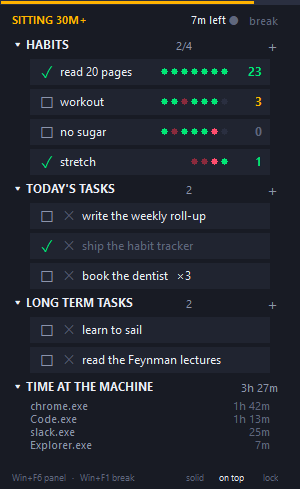
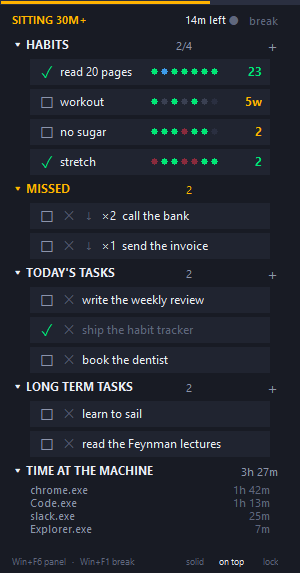
Daybook 1.0.0: out of beta, a taskbar window that never pops up by itself
The panel is an ordinary window by default - taskbar button, Alt+Tab,
minimise - with [Look] Taskbar to switch back to the overlay. Nothing it does
on its own raises, restores or focuses it: Relayout no longer shows a hidden
or minimised panel from a timer.

README: no-internet line up top, where the journal goes without Obsidian, new
screenshots made from a default ini and invented data.

diff --git a/README.md b/README.md
@@ -1,15 +1,16 @@
 # Semi-Automatic Daybook
 
-An always-on-top day panel for Windows. Habits, tasks, and a sit timer that
+A day panel for Windows. Habits, tasks, and a sit timer that
 only counts time you were actually there - all of it written out as plain
 markdown, one file per day.
 
 Semi-automatic: it keeps the half of a journal that is counting, and leaves the
 half that is thinking to you.
 
-AutoHotkey v1 · Windows only · beta, it has only ever run on one machine
+AutoHotkey v1 · Windows only · **no internet, no account** - everything stays
+in two folders on your PC
 
-![The panel: habits with their streaks, today's tasks, long term tasks, and where the day went](https://raw.githubusercontent.com/HamedPhixer/Semi-Automatic-Daybook/main/docs/images/panel.png)
+![The panel: habits with their streaks, missed tasks, today's and long term tasks, and where the day went](https://raw.githubusercontent.com/HamedPhixer/Semi-Automatic-Daybook/main/docs/images/panel.png)
 
 ## What it does
 
@@ -19,6 +20,8 @@ ticked, for the evening you did the thing and forgot to say so. Every day,
 every few days, or so many times a week; rest days for when you are sick or
 away. Right-click a habit for its calendar, where you can also bring in a
 streak you kept somewhere else.
+
+![A habit's calendar: three times a week, every week kept, with the streak in weeks](https://raw.githubusercontent.com/HamedPhixer/Semi-Automatic-Daybook/main/docs/images/calendar.png)
 
 **Tasks.** One list for today, one for later. Tick or cross one and a small box
 opens to say why. Anything unfinished waits under MISSED: say which day you did
@@ -57,8 +60,12 @@ Amber at 30 minutes and red at 45, five minutes for a break: all settings.
 
 ## The journal
 
-One `YYYY-MM-DD.md` per day. The top is yours to write in; Daybook keeps a
-summary of the day at the bottom, and rewrites only that part:
+Plain markdown files, one `YYYY-MM-DD.md` per day, in `Documents\Daybook journal`
+unless you pick another folder. Notepad opens them; **Obsidian is optional** -
+point the folder at your vault and they show up there.
+
+The top of each note is yours to write in; Daybook keeps a summary of the day
+at the bottom, and rewrites only that part:
 
 ```
 ## my notes

diff --git a/CHANGELOG.md b/CHANGELOG.md
@@ -3,6 +3,21 @@
 Notable changes, newest first. The version is in `lib\Config.ahk`
 (`DaybookVersion`).
 
+## 1.0.0
+
+- **Out of beta.**
+- **A taskbar button and Alt+Tab** - the panel is an ordinary window; Settings > On the taskbar switches back to the overlay.
+- **Never pops up by itself** - timers and updates don't raise, restore or focus it.
+
+<details>
+<summary>Everything that changed</summary>
+
+- A minimised panel stays minimised; Win+F6 or its taskbar button brings it back.
+- A hidden panel no longer comes back on its own when the day rolls over.
+- Two settings hints no longer cut off.
+
+</details>
+
 ## 0.9.0-beta.3
 
 - **Missed tasks** - unfinished tasks wait in their own section: did it (on which day), drop, or back to today.
